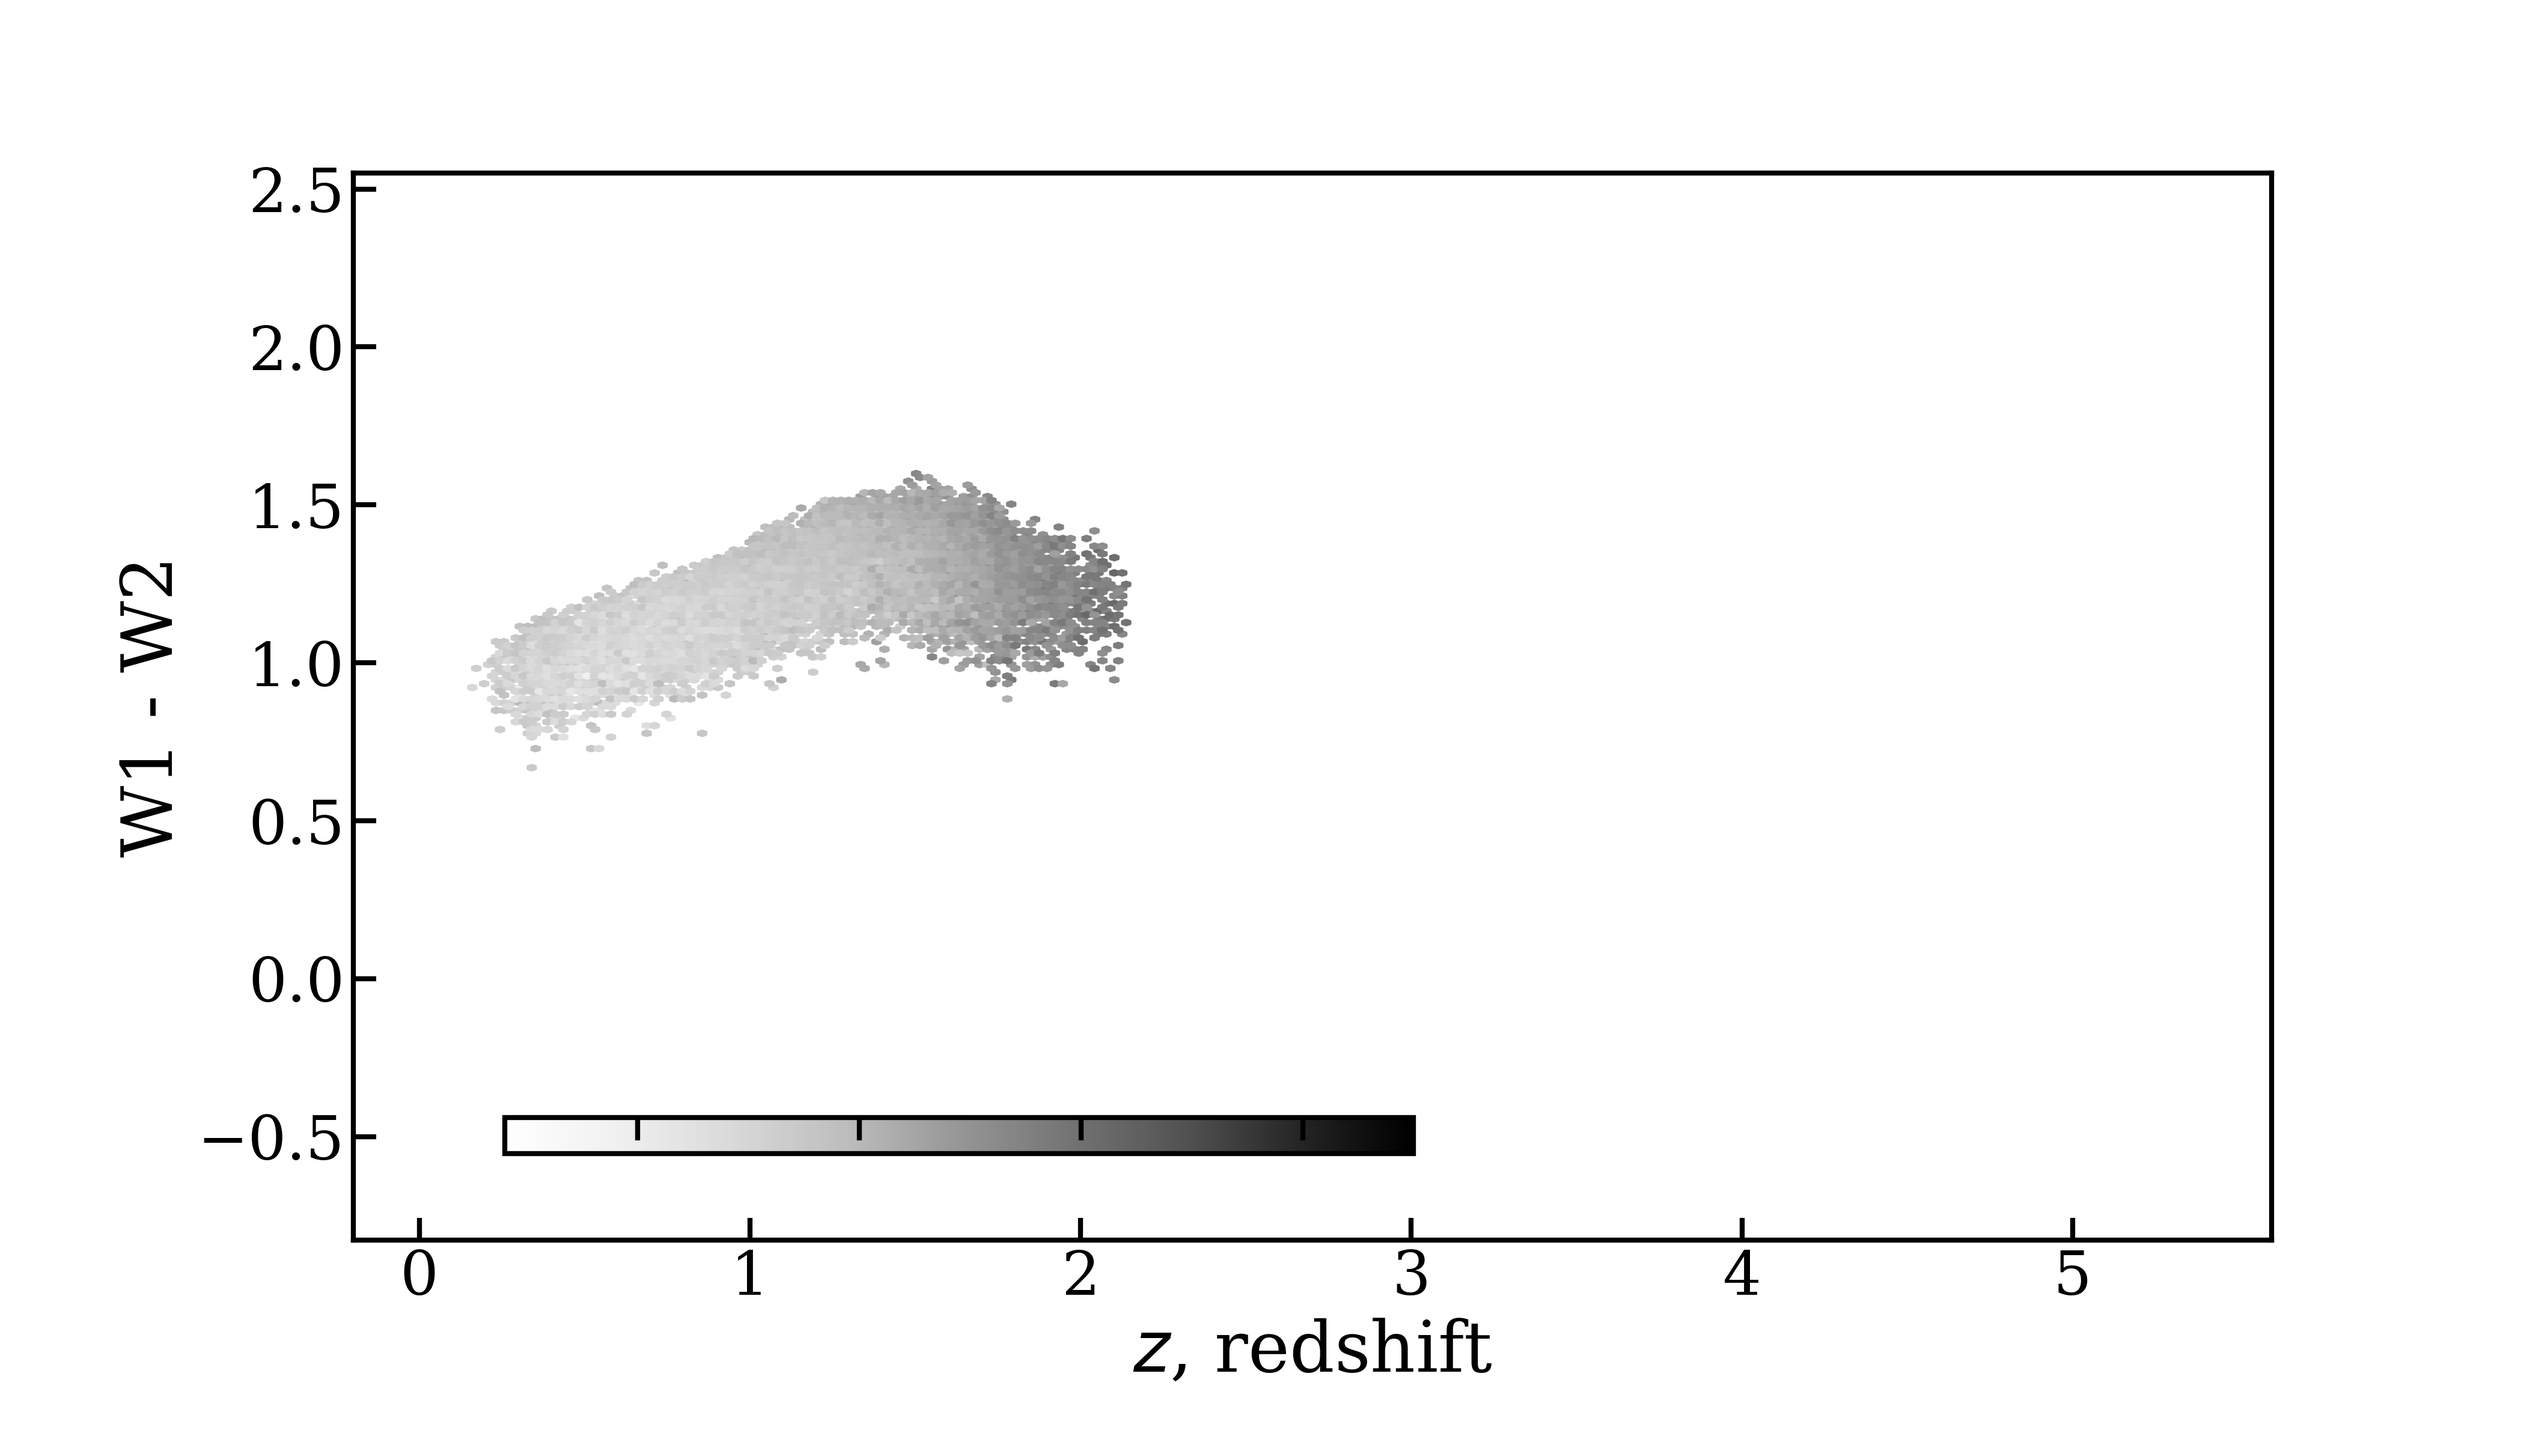
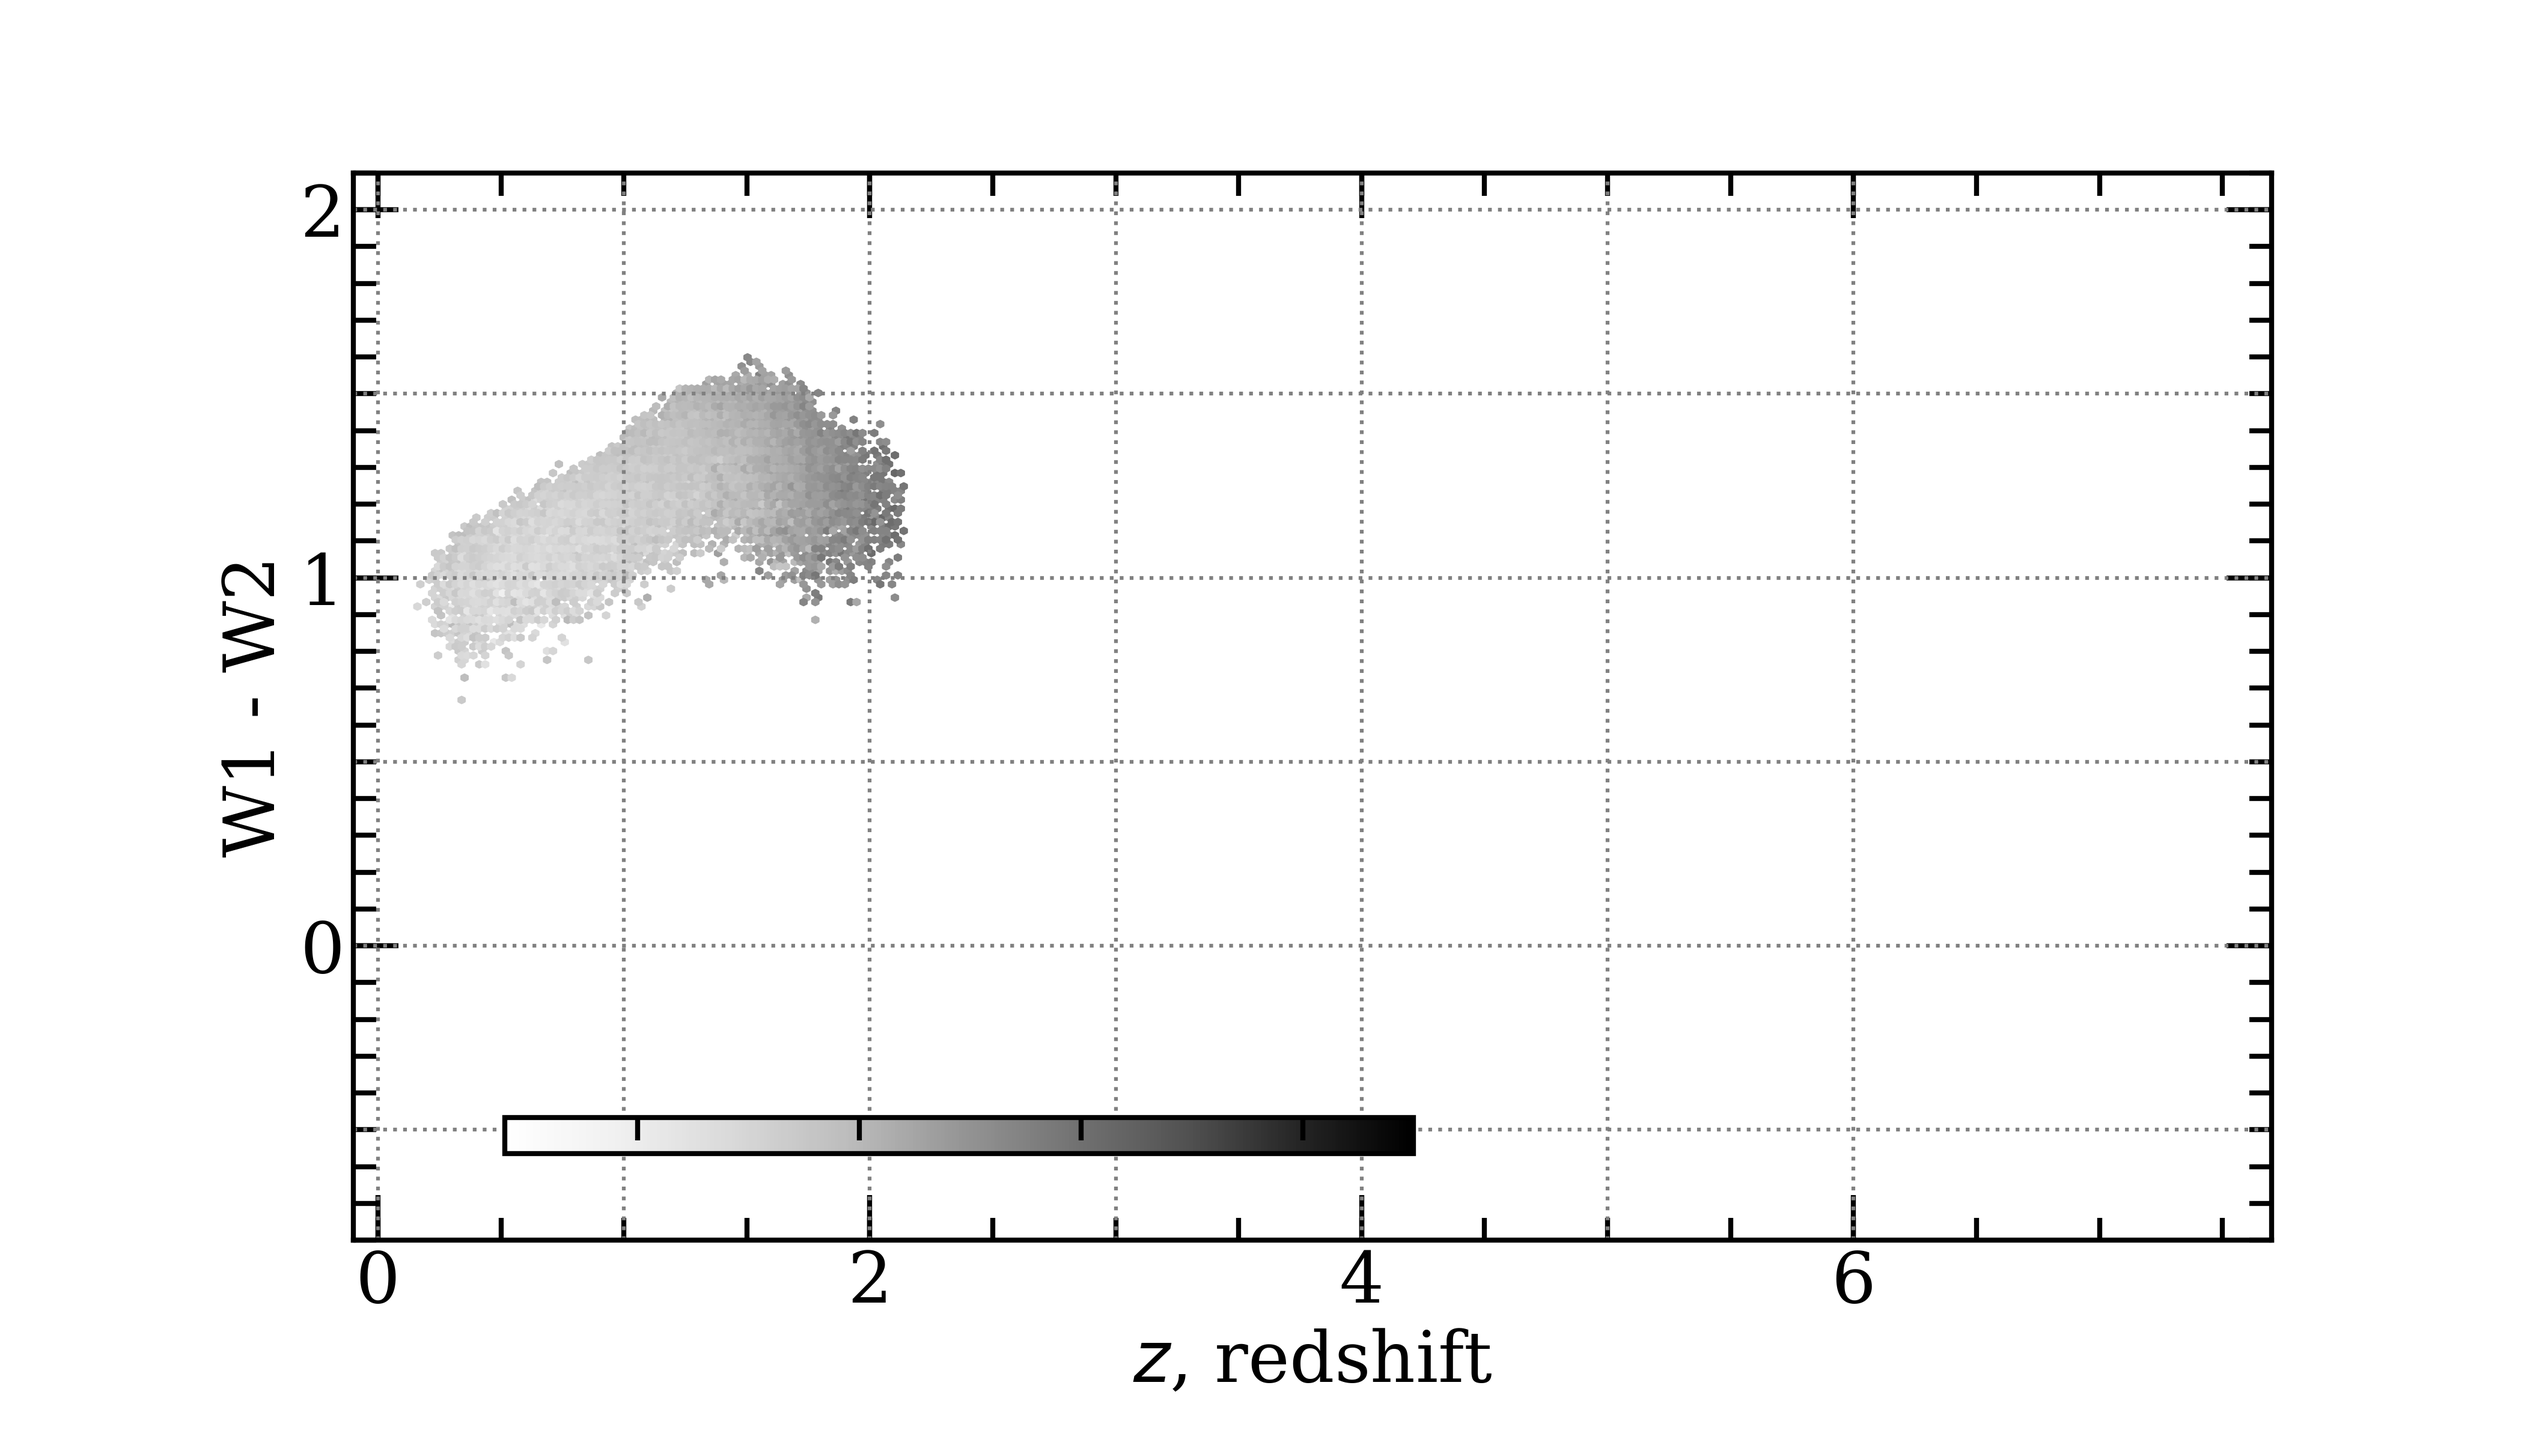
color_redshift/redshift_vs_W1W2.py big update

diff --git a/color_redshift/redshift_vs_W1W2.py b/color_redshift/redshift_vs_W1W2.py
@@ -41,11 +41,20 @@ sdss  = dr14q[np.where( dr14q['MJD'] < 55176  )]
 boss  = dr14q[np.where((dr14q['MJD'] > 55176) & (dr14q['MJD'] < 56837))  ]
 ## SDSS-IV
 eboss = dr14q[np.where( dr14q['MJD'] > 56837  )]  
-
 ## Should be:
-##   79,487 for SDSS-I/II;
-##  286,686 for BOSS;
-##  159,981 for SDSS-IV
+##    79,487 for SDSS-I/II;
+##   286,686 for BOSS;
+##   159,981 for SDSS-IV
+
+
+boss_uband = boss['PSFMAG'][0:,0]
+boss_gband = boss['PSFMAG'][0:,1]
+boss_rband = boss['PSFMAG'][0:,2]
+boss_iband = boss['PSFMAG'][0:,3]
+boss_zband = boss['PSFMAG'][0:,4]
+
+boss_g_minus_i = boss_gband - boss_iband
+
 dr14q_W1minW2 = (dr14q['W1MAG'] - dr14q['W2MAG'])
 dr14q_W2minW3 = (dr14q['W2MAG'] - dr14q['W3MAG'])
 ##
@@ -55,7 +64,6 @@ boss_W1minW2  = (boss['W1MAG'] - boss['W2MAG'])
 boss_W2minW3  = (boss['W2MAG'] - boss['W3MAG'])
 eboss_W1minW2 = (eboss['W1MAG'] - eboss['W2MAG'])
 eboss_W2minW3 = (eboss['W2MAG'] - eboss['W3MAG'])
-
 
 ##
 ##  V H z Q    data
@@ -67,6 +75,7 @@ VHzQ_full = ascii.read(table)
 ## in case you want to select on e.g. snr
 VHzQ = VHzQ_full
 #VHzQ = VHzQ_full[np.where(VHzQ_full['w3snr'] >3.0)]
+
 
 
 
@@ -88,9 +97,7 @@ pointsize       = 100
 pointsize_large = pointsize*2.2
 fontsize        = 28
 
-
-vmin = 2.2
-vmax = 4.25
+vmin = 2.2; vmax = 4.25 ## for W2-W3
 ##
 ##   Plotting the   D R 1 4 Q    hexbins
 ##
@@ -117,10 +124,11 @@ print()
 ##
 #cmap = plt.cm.inferno
 cmap = plt.cm.seismic
-hb_VHzQ = ax.scatter(  VHzQ['redshift'], 
-                      (VHzQ['unW1mag'] - VHzQ['unW2mag']),
+hb_VHzQ = ax.scatter(VHzQ['redshift'],
+                    (VHzQ['unW1mag'] - VHzQ['unW2mag']),
                      s=pointsize_large, c='k')
 
+vmin = 2.2; vmax = 4.25 ## for W2-W3
 hb_VHzQ = ax.scatter(VHzQ['redshift'], 
                     (VHzQ['unW1mag'] - VHzQ['unW2mag']),
                   c=(VHzQ['unW2mag'] - VHzQ['w3mpro']),
@@ -145,15 +153,15 @@ ax.axis([xmin, xmax, ymin, ymax])
 ax.tick_params(axis='both', which='major', labelsize=ls, top='on', right='on', direction='in', length=ticklength,   width=tickwidth)
 ax.tick_params(axis='both', which='minor', labelsize=ls, top='on', right='on', direction='in', length=ticklength/2, width=tickwidth)
 
-majorLocator = MultipleLocator(2.0)
-minorLocator = MultipleLocator(0.5)
-ax.xaxis.set_major_locator(majorLocator)
-ax.xaxis.set_minor_locator(minorLocator)
+majorLocator_x = MultipleLocator(2.0)
+minorLocator_x = MultipleLocator(0.5)
+majorLocator_y = MultipleLocator(1.0)
+minorLocator_y = MultipleLocator(0.1)
 
-majorLocator = MultipleLocator(1.0)
-minorLocator = MultipleLocator(0.1)
-ax.yaxis.set_major_locator(majorLocator)
-ax.yaxis.set_minor_locator(minorLocator)
+ax.xaxis.set_major_locator(majorLocator_x)
+ax.xaxis.set_minor_locator(minorLocator_x)
+ax.yaxis.set_major_locator(majorLocator_y)
+ax.yaxis.set_minor_locator(minorLocator_y)
 
 ## Grid lines to compare with Wright et al. (2010) Fig. 12
 ## Vertical lines
@@ -169,7 +177,6 @@ ax.set_ylabel(r" W1 - W2 ", fontsize=fontsize)
 plt.savefig('redshift_vs_W1W2_temp.png', format='png')
 #plt.show()
 plt.close()
-
 
 
 
@@ -191,9 +198,104 @@ cbaxes = fig.add_axes([0.2, 0.20,  0.36, 0.025])
 cb = fig.colorbar(hb, ax=ax, cax=cbaxes, orientation='horizontal', ticklocation = 'top')
 cb.ax.set_xticklabels([''])
 
+ax1.axis([xmin, xmax, ymin, ymax])
+ax1.tick_params(axis='both', which='major', labelsize=ls, top='on', right='on', direction='in', length=ticklength,   width=tickwidth)
+ax1.tick_params(axis='both', which='minor', labelsize=ls, top='on', right='on', direction='in', length=ticklength/2, width=tickwidth)
+
+ax1.xaxis.set_major_locator(majorLocator_x); ax1.xaxis.set_minor_locator(minorLocator_x)
+ax1.yaxis.set_major_locator(majorLocator_y); ax1.yaxis.set_minor_locator(minorLocator_y)
 ax1.set_xlabel(r"$z$, redshift", fontsize=fontsize)
 ax1.set_ylabel(r" W1 - W2 ", fontsize=fontsize)
 
+## Vertical lines
+for x in range(8): 
+    ax1.axvline(x=(x-1.0), ymin=0, ymax=1, ls=':', color='grey')
+## Horizontal lines
+for y in range(9):
+    ax1.axhline(y=((y*.5)-1.0), xmin=0, xmax=1, ls=':', color='grey')
+
+
 plt.savefig('redshift_vs_W1W2_sdss_temp.png', format='png')
+plt.close()
+
+
+
+###################################
+##
+##   B O S S  
+##
+plt.rcParams.update({'font.size': 14})
+fig, ax2 = plt.subplots(figsize=(14, 8), num=None, dpi=80, facecolor='w', edgecolor='k')
+##
+
+#cmap = plt.cm.Greys
+cmap = plt.cm.plasma
+#vmin = 2.2; vmax = 4.25 ## for W2-W3
+vmin = -0.2; vmax = 1.25 ## for (g-i)
+hb = ax2.hexbin(boss['Z'], boss_W1minW2,
+             #C=boss_W2minW3,
+             C=boss_g_minus_i, 
+             gridsize=220, mincnt=10, marginals=False, cmap=cmap,  vmin=vmin, vmax=vmax)
+
+## Making the colorbar
+cbaxes = fig.add_axes([0.2, 0.20,  0.36, 0.025]) 
+cb = fig.colorbar(hb, ax=ax, cax=cbaxes, orientation='horizontal', ticklocation = 'top')
+cb.ax.set_xticklabels([''])
+
+ax2.axis([xmin, xmax, ymin, ymax])
+ax2.tick_params(axis='both', which='major', labelsize=ls, top='on', right='on', direction='in', length=ticklength,   width=tickwidth)
+ax2.tick_params(axis='both', which='minor', labelsize=ls, top='on', right='on', direction='in', length=ticklength/2, width=tickwidth)
+
+ax2.xaxis.set_major_locator(majorLocator_x); ax2.xaxis.set_minor_locator(minorLocator_x)
+ax2.yaxis.set_major_locator(majorLocator_y); ax2.yaxis.set_minor_locator(minorLocator_y)
+ax2.set_xlabel(r"$z$, redshift", fontsize=fontsize)
+ax2.set_ylabel(r" W1 - W2 ", fontsize=fontsize)
+
+## Vertical lines
+for x in range(8): 
+    ax2.axvline(x=(x-1.0), ymin=0, ymax=1, ls=':', color='grey')
+## Horizontal lines
+for y in range(9):
+    ax2.axhline(y=((y*.5)-1.0), xmin=0, xmax=1, ls=':', color='grey')
+
+plt.savefig('redshift_vs_W1W2_boss_temp.png', format='png')
 #plt.show()
+plt.close()
+
+
+
+###################################
+##
+##   e B O S S  
+##
+plt.rcParams.update({'font.size': 14})
+fig, ax3 = plt.subplots(figsize=(14, 8), num=None, dpi=80, facecolor='w', edgecolor='k')
+##
+cmap = plt.cm.Greys
+hb = ax3.hexbin(eboss['Z'], eboss_W1minW2,
+             C=eboss_W2minW3,
+             gridsize=220, mincnt=10, marginals=False, cmap=cmap,  vmin=vmin, vmax=vmax)
+
+## Making the colorbar
+cbaxes = fig.add_axes([0.2, 0.20,  0.36, 0.025]) 
+cb = fig.colorbar(hb, ax=ax, cax=cbaxes, orientation='horizontal', ticklocation = 'top')
+cb.ax.set_xticklabels([''])
+
+ax3.axis([xmin, xmax, ymin, ymax])
+ax3.tick_params(axis='both', which='major', labelsize=ls, top='on', right='on', direction='in', length=ticklength,   width=tickwidth)
+ax3.tick_params(axis='both', which='minor', labelsize=ls, top='on', right='on', direction='in', length=ticklength/2, width=tickwidth)
+
+ax3.xaxis.set_major_locator(majorLocator_x); ax3.xaxis.set_minor_locator(minorLocator_x)
+ax3.yaxis.set_major_locator(majorLocator_y); ax3.yaxis.set_minor_locator(minorLocator_y)
+ax3.set_xlabel(r"$z$, redshift", fontsize=fontsize)
+ax3.set_ylabel(r" W1 - W2 ", fontsize=fontsize)
+
+## Vertical lines
+for x in range(8): 
+    ax3.axvline(x=(x-1.0), ymin=0, ymax=1, ls=':', color='grey')
+## Horizontal lines
+for y in range(9):
+    ax3.axhline(y=((y*.5)-1.0), xmin=0, xmax=1, ls=':', color='grey')
+
+plt.savefig('redshift_vs_W1W2_eboss_temp.png', format='png')
 plt.close()
